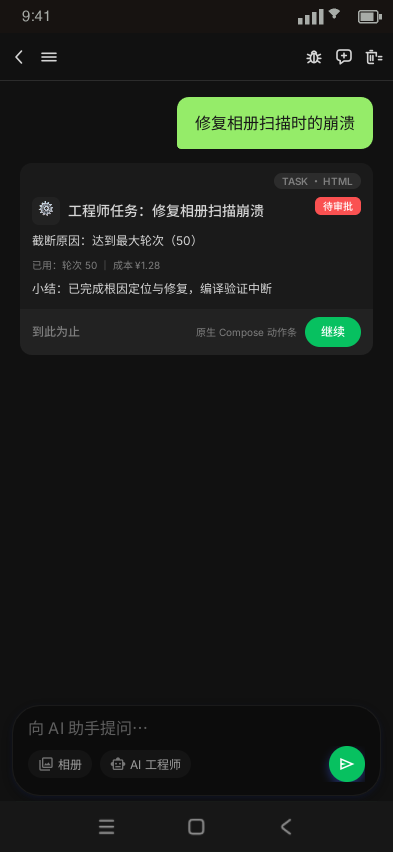
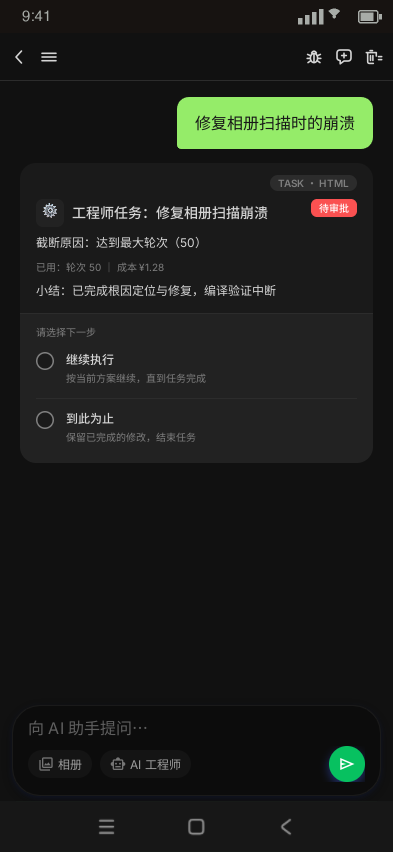
feat(design): 任务卡上下两分区改版(Muse 风格)——动作区收进卡内 + done 帧新增
- HtmlCard 页三帧(collapsed/expanded/approval)重构为 InfoZone+ActionZone 两分区,弃原生外置动作条;r12→16、留白 12→16
- 四态动作映射:running=整宽[停止]胶囊 / approval=radio 选项列表(继续执行|到此为止) / done=[暂不|推送交付]双按钮(新帧 444:31) / failed=[重试](批注记录)
- notes 帧加「分区」批注、修订「审批」批注;spec §2/§7/§13/§15 加 2026-09-27 修订注(零 JS 桥红线与动作状态同源语义不变)
- 验证:health-check 归零(分区同构重复入 health-ignore.txt +5 行);Light 双模 4/4;refs 四帧落盘(taskcard-done.png 新增)

diff --git a/docs/superpowers/specs/2026-09-26-html-card-two-tier-design.md b/docs/superpowers/specs/2026-09-26-html-card-two-tier-design.md
@@ -3,7 +3,7 @@
 > **日期**: 2026-09-26
 > **来源**: 用户新想法——「短卡 chat 内直接交互无手势冲突；长文 HTML（超一屏）手势冲突突出，外显为固定高预览卡，点击全屏」；随后扩展「任务卡也适合 HTML 形态呈现，点击展开细节」
 > **上游**: ADR-014（chat 富内容渲染，含 2026-09-25 修订注记）、`JS_ENGINE_TECH_SPEC.md` §7.1（HtmlCard 实现 SSOT）、`2026-09-25-engineer-task-card-design.md`（任务卡，本 spec 修订其 D2/§6）
-> **关键决策**（用户 2026-09-26 逐项确认）：混合分流判定 / 实时裁剪预览 / 全屏同沙箱允许竖滚；任务卡原地展开+超长进全屏 / 审批动作条原生外置 / 折叠展开全 HTML；富内容三通道路由（draw_chart / render_html / 纯 markdown）+ 正文禁嵌渲染级 HTML
+> **关键决策**（用户 2026-09-26 逐项确认）：混合分流判定 / 实时裁剪预览 / 全屏同沙箱允许竖滚；任务卡原地展开+超长进全屏 / 审批动作条原生外置（**2026-09-27 修订：动作区收进卡内，上下两分区，Muse 风格**，见 §7）/ 折叠展开全 HTML；富内容三通道路由（draw_chart / render_html / 纯 markdown）+ 正文禁嵌渲染级 HTML
 > **设计稿**: Ardot 文件 polang-ui-spec（fileId 715061534788814）页面 `HtmlCard`（pageId `438:2`）8 帧，见 §13；过程稿 `docs/superpowers/specs/2026-09-26-html-card-two-tier-mockup.html`
 
 ---
@@ -22,7 +22,7 @@
 - **Inline 卡（短卡）**：现状保留——完全撑开、卡内直接交互、永不内滚。
 - **Fullpage 卡（长卡）**：chat 内外显为**固定高实时裁剪预览**（≈0.5 屏，底部渐隐 + 提示条），预览态禁交互，点击进**全屏查看器**（同沙箱、允许竖滚、全量 JS 交互）。
 - **分流 = 混合判定**：LLM 经 `render_html` 新参数 `display` 声明意图；端侧测高超阈值强制降级预览卡兜底。
-- **任务卡 HTML 化**：折叠/展开态均改为端侧 L1 模板渲染 HTML；审批动作条原生外置；原地展开超一屏自动复用 Fullpage 形态。
+- **任务卡 HTML 化**：折叠/展开态均改为端侧 L1 模板渲染 HTML；动作区收进卡内下半分区（2026-09-27 修订，原「审批动作条原生外置」作废，见 §7）；原地展开超一屏自动复用 Fullpage 形态。
 
 ## 3. 形态定义
 
@@ -71,6 +71,7 @@
   - 展开后测高 > 1.0 屏 → 自动转 Fullpage 预览形态（渐隐 + 提示条），点击进全屏查看器看完整事件流/日志。
 - **实时刷新**：SSE/状态流变化 → 重新生成 HTML 并**节流重渲染**（500ms 合帧；列表滑动中冻结，滚停后应用——复用 HTML 卡防抖机制）。闪烁风险（WebView 整页重载）为已知代价，P1 实测定夺是否需增量 DOM 补丁通道（预留，不在本期）。
 - **审批动作条原生外置**：HTML 卡底部拼接原生 Compose 动作条（圆角延续、表面色稍深）——running=[停止]、approval=[继续/到此为止]、done=[交付 push/暂不]、failed=[重试]。零 JS 桥接红线不动，D5 审批外置语义延续；动作状态与卡片同源（同一任务状态模型）。
+  - **2026-09-27 修订（用户决策，Muse 风格对齐）**：动作区**收进卡片内**，任务卡改为上下两分区——上半部=任务信息，下半部=用户选项列表或按钮（如有）；外置动作条方案作废（实现层由「卡底拼接原生条」改为「HTML 卡容器内原生组合下半分区」，零 JS 桥接红线与动作状态同源语义不变）。四态映射：running=整宽胶囊[停止]、approval=radio 选项列表（继续执行/到此为止）、done=[暂不|推送交付]双按钮、failed=[重试]（主按钮）。画布 SSOT：HtmlCard 页 `taskcard/done` 帧（444:31）与三帧改版。
 - **任务中心页**（US-12~16）列表项继续用现有原生紧凑形态，不 HTML 化（页面内多卡并存，WebView 实例成本不划算）。
 
 ## 8. Prompt 契约变更
@@ -122,12 +123,13 @@
 | `htmlcard/preview` | `438:60` | 长卡固定高预览（渐隐 + 提示条） |
 | `htmlcard/fullpage` | `438:98` | 全屏查看器（顶栏 + 竖滚 + 手风琴） |
 | `htmlcard/notes` | `438:139` | 交互与工程批注 ×7 |
-| `taskcard/collapsed` | `438:181` | 任务卡折叠态（running） |
-| `taskcard/expanded` | `438:208` | 任务卡原地展开态 + 原生动作条 |
-| `taskcard/approval` | `438:264` | 审批态 + 原生动作条 |
-| `taskcard/notes` | `438:296` | 任务卡 HTML 化批注 ×5 |
+| `taskcard/collapsed` | `438:181` | 任务卡折叠态（running）· 09-27 两分区改版 + 卡内[停止] |
+| `taskcard/expanded` | `438:208` | 任务卡原地展开态 · 09-27 两分区改版 + 卡内[停止] |
+| `taskcard/approval` | `438:264` | 审批态 · 09-27 两分区改版 + 卡内 radio 选项列表 |
+| `taskcard/done` | `444:31` | 完成态（09-27 新增）· 卡内[暂不\|推送交付]双按钮 |
+| `taskcard/notes` | `438:296` | 任务卡 HTML 化批注 ×6（含 09-27 分区改版批注） |
 
-画布质量：health-check 退出码 0（literal=0）；Light 双模验证 8/8 通过。已知例外：hero/渐隐遮罩为字面渐变（引擎渐变+变量 stop 不绘制陷阱），遮罩按 Dark 底色渐隐，Light 下呈暗色晕染（实现时渐隐遮罩用运行时卡底色，天然规避）。
+画布质量：health-check 退出码 0（literal=0）；Light 双模验证 8/8 通过（09-27 改版后任务卡四帧复验 4/4，全页 9 帧）。已知例外：hero/渐隐遮罩为字面渐变（引擎渐变+变量 stop 不绘制陷阱），遮罩按 Dark 底色渐隐，Light 下呈暗色晕染（实现时渐隐遮罩用运行时卡底色，天然规避）。
 
 ## 14. 测试决策
 
@@ -139,7 +141,7 @@
 
 ## 15. 明确不做
 
-- URL scheme / JS 桥等卡内原生指令通道（审批动作条原生外置已覆盖诉求）；
+- URL scheme / JS 桥等卡内原生指令通道（卡内原生动作区已覆盖诉求，09-27 分区改版后语义不变）；
 - 增量 DOM 补丁刷新通道（任务卡闪烁若可接受则永不做，预留评估）；
 - 任务中心页列表项 HTML 化；
 - 预览卡内横向交互保留（预览态一律禁交互，YAGNI）；
